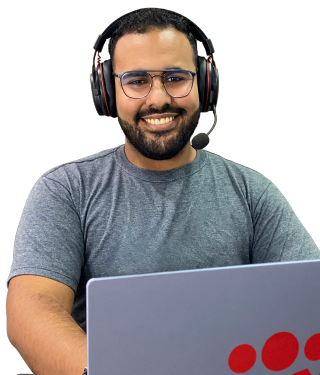
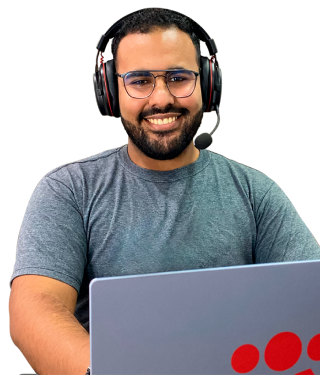
contact page design improvements and responsive details fixed

diff --git a/app/contact/page.tsx b/app/contact/page.tsx
@@ -10,15 +10,16 @@ const ContactUs = () => {
     <div className='bg-[#800202] pb-8 md:pb-24'>
         <NavbarComponent></NavbarComponent>
         <section className=''>
-          <h1 className='text-4xl uppercase text-white font-extrabold my-12 ml-24'>Contact Us</h1>
+          <h1 className='text-4xl uppercase text-white font-extrabold my-12 mx-auto w-fit md:ml-24'>Contact Us</h1>
           <article className='flex flex-col md:flex-row w-11/12 bg-white rounded-r-[66px]'>
             <MainForm dark={2}></MainForm>
-            <div className='basis-2/6 flex flex-col gap-8 justify-center text-center md:text-start text-lg pb-8 md:pb-0 md:ml-[4%]'>
+            <div className='basis-2/6 flex flex-col justify-center text-center items-center text-lg pb-8 md:pb-0 md:ml-[4%]'>
+                <Image className='-mb-12' src={'/contact/interactive-worker.png'} alt='Interactive worker' width={302} height={387}></Image>
                 <h2 className='font-black text-4xl text-[#820707] uppercase'>Info</h2>
-                <div> <Image className='inline mr-1' src={'/contact/email.svg'} alt='Interactive Email' width={18} height={15}></Image> <span>info@interactiveworkers.com</span></div>
-                <div> <Image className='inline mr-1' src={'/contact/phone.svg'} alt='Interactive Email' width={17} height={15}></Image> <span>+1 332-206-2891</span></div>
-                <h3>@interactiveworkers</h3>
-                <Socials className='justify-center md:justify-start'></Socials>
+                <div className="mt-4 text-xl font-medium"> <Image className='inline mr-1' src={'/contact/phone.svg'} alt='Interactive Email' width={17} height={15}></Image> <span>+1 332-206-2891</span></div>
+                <div className='text-xl font-medium'> <Image className='inline mr-1' src={'/contact/email.svg'} alt='Interactive Email' width={18} height={15}></Image> <span>info@interactiveworkers.com</span></div>
+                <h3 className='font-bold mt-4 text-[#333333]'>@interactiveworkers</h3>
+                <Socials className='mt-8 justify-center md:justify-start'></Socials>
             </div>
           </article>
           <article className='w-full md:w-3/4 mx-auto mt-8 bg-white rounded-[66px]'>

diff --git a/app/components/home/benefits.tsx b/app/components/home/benefits.tsx
@@ -11,16 +11,16 @@ const BenefitsBanner = () => {
             <Image className='w-1/5 absolute z-0 bottom-0 left-0 xl:block hidden' src={'/home/space-elements-4.png'} alt='Interactive Workers space element 4' width={244} height={370} quality={100}></Image>
         <article className='relative'>
             
-            <div className='relative z-40 w-3/4 mx-auto uppercase font-bold text-2xl lg:text-4xl text-black p-12 bg-white rounded-3xl'>
+            <div className='relative z-40 w-11/12 md:w-3/4 mx-auto uppercase font-bold text-lg lg:text-4xl text-black p-12 bg-white rounded-3xl'>
                 <h2>Our virtual assistants are <br /></h2>
                 <h2 className='mt-1.5 text-[#DD272D]'> your partners in success </h2>
-                <p className=' text-base mt-2'>Delivering quality work, adaptability, and results at a pace that suits your business needs.</p>
+                <p className=' text-sm md:text-base mt-2'>Delivering quality work, adaptability, and results at a pace that suits your business needs.</p>
             </div>
-            <div className='relative z-40 w-10/12 mx-auto flex flex-wrap text-black justify-center mt-2 bg-white rounded-3xl p-8 px-4'>
+            <div className='relative z-40 md:w-10/12 mx-auto grid grid-cols-2 md:grid-cols-3 lg:grid-cols-6 align-middle items-center text-black mt-2 bg-white rounded-3xl md:p-8 px-4'>
             {
                 benefits.map((benefit, i) => {
                     return(
-                        <Card key={benefit.title} className={` rounded-3xl shadow-none border-none`}>
+                        <Card key={benefit.title} className={`col-span-1 rounded-3xl shadow-none border-none`} >
                             <Image className='mx-auto' src={`/home/benefits/${i}.png`} alt={benefit.title} width={120} height={120}></Image>
                             <h3 className='text-sm md:text-base text-[#DD272D] font-black'>{benefit.title}</h3>
                         </Card>

diff --git a/app/components/footer/socials.tsx b/app/components/footer/socials.tsx
@@ -4,11 +4,11 @@ import React from 'react'
 const Socials = ({className}:{className?:string}) => {
     return (
         <div className={`flex gap-2 ${className}`}>
-            <Image src={'/footer/ig.svg'} alt='social Interactive workers' width={23} height={23}></Image>
-            <Image src={'/footer/fb.svg'} alt='social Interactive workers' width={23} height={23}></Image>
-            <Image src={'/footer/x.svg'} alt='social Interactive workers' width={23} height={23}></Image>
-            <Image src={'/footer/li.svg'} alt='social Interactive workers' width={23} height={23}></Image>
-            <Image src={'/footer/wss.svg'} alt='social Interactive workers' width={23} height={23}></Image>
+            <Image className='w-9 h-auto' src={'/footer/ig.svg'} alt='social Interactive workers' width={23} height={23}></Image>
+            <Image className='w-9 h-auto' src={'/footer/fb.svg'} alt='social Interactive workers' width={23} height={23}></Image>
+            <Image className='w-9 h-auto' src={'/footer/x.svg'} alt='social Interactive workers' width={23} height={23}></Image>
+            <Image className='w-9 h-auto' src={'/footer/li.svg'} alt='social Interactive workers' width={23} height={23}></Image>
+            <Image className='w-9 h-auto' src={'/footer/wss.svg'} alt='social Interactive workers' width={23} height={23}></Image>
         </div>
     )
 }

diff --git a/app/components/home/intro-banner.tsx b/app/components/home/intro-banner.tsx
@@ -10,10 +10,10 @@ const IntroBanner = () => {
         
         <article className='relative flex justify-around items-center'>
           <div className='max-w-[35%] text-white gap-2 md:gap-6 flex flex-col'>
-            <h1 className=' font-bold lg:text-4xl text-sm z-40'>At InteractiveWorkers, <br />
+            <h1 className=' font-bold lg:text-4xl text-xs z-40'>At InteractiveWorkers, <br />
               we transform the <br /> concept of outsourcing.
             </h1>
-            <p className='font-medium text-sm md:text-xl md:w-3/4 z-40'>We turn the intricate world of outsourcing into a simple, interactive, and value-driven process</p>
+            <p className='font-medium text-xs md:text-xl md:w-3/4 z-40'>We turn the intricate world of outsourcing into a simple, interactive, and value-driven process</p>
             <Link href={'https://calendly.com/interactiveworkersgm/30min'} target='_blank' className=' p-2 md:py-4 z-40 md:px-6 rounded-3xl bg-[#DD272D] text-left font-bold text-sm md:text-2xl max-w-fit uppercase'>Book a Call</Link>
           </div>
           <div className='w-1/2 h-full absolute right-0 bg-[#dd272d86] mix-blend-multiply bg-blend-multiply'></div>

diff --git a/app/components/vas/teams.tsx b/app/components/vas/teams.tsx
@@ -74,7 +74,7 @@ const Teams = () => {
         {vasTabs.map((tab, i) =>
           <Tabs.Item key={tab.name} active={active === i ? true : false} title={tab.name}>
             <div className='grid grid-cols-1 md:grid-cols-2 lg:grid-cols-2 xl:grid-cols-3 gap-8 xl:gap-16 mt-16'>
-              <div className='p-8 py-16 xl:py-32 flex flex-col items-center justify-center text-center gap-4 bg-[#DD272D] rounded-[66px] text-white col-span-2'>
+              <div className='p-8 py-16 xl:py-32 flex flex-col items-center justify-center text-center gap-4 bg-[#DD272D] rounded-[66px] text-white col-span-2 we-build-bg'>
                 <h4 className='text-xl md:text-6xl font-extrabold mb-4 max-w-fit'>Are you looking for a specific profession?</h4>
                 <span className='font-normal text-base md:text-4xl'>We can build it for you</span>
               </div>

diff --git a/app/layout.tsx b/app/layout.tsx
@@ -18,7 +18,7 @@ export default function RootLayout({
 }>) {
   return (
     <html lang="en">
-      <body className={montserrat.className + "overflow-hidden scroll-smooth"}>
+      <body className={montserrat.className + " " + "scroll-smooth"}>
 
         {children}
         <Script id="tawk" strategy="lazyOnload">
